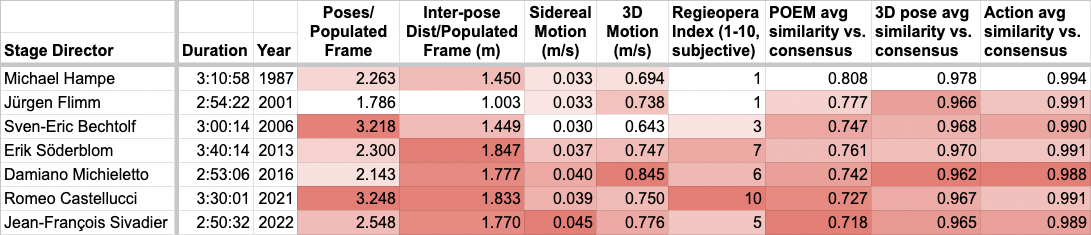
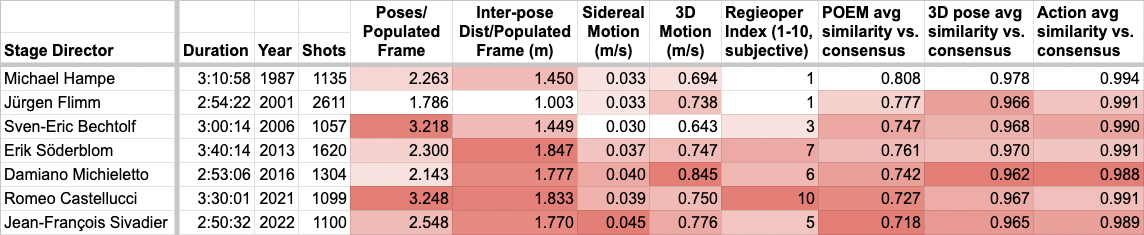
Update experiment results tables

diff --git a/slides.md b/slides.md
@@ -72,9 +72,9 @@ Ultimately, the problem of pose in theater is not just about understanding physi
 
 <div class="img-row">
 
-![OpenPifPaf not doing well](assets/methods/OpenPifPaf_bad.jpg "OpenPifPaf not doing well") Open PifPaf<br> (Temporal-Convolutional)
+![OpenPifPaf not doing well](assets/methods/OpenPifPaf_bad.jpg "OpenPifPaf not doing well") <strong>Open PifPaf</strong><br> Temporal-convolutional<br>2D only, limited tracking
 
-![PHALP doing well](assets/methods/PHALP_good.jpg "PHALP doing well") PHALP<br>(Transformers)
+![PHALP doing well](assets/methods/PHALP_good.jpg "PHALP doing well") <strong>PHALP</strong><br>Transformers-based<br>3D, more robust to occlusion
 
 </div>
 
@@ -112,8 +112,8 @@ Jathushan Rajasegaran, Georgios Pavlakos, Angjoo Kanazawa, Jitendra Malik. “Tr
 
 ![A vision transformer](assets/methods/vision-transformer.png "Vision transformer diagram") Alexey Dosovitskiy, et al. “An Image is Worth 16x16 Words: Transformers for Image Recognition at Scale.” In Proc. International Conference on Learning Representation 2021.
 
-![Transformer self-attention diagram](assets/methods/transformer_self-attention_visualization.png "Transformer self-attention diagram") Multi-headed self-attention, but with image patches, rather than words<br>
-(jalammar.github.io/illustrated-transformer/)
+![Transformer self-attention diagram](assets/methods/transformer_self-attention_visualization.png "Transformer self-attention diagram") Multi-headed self-attention, but with image patches instead of words<br>
+<small>jalammar.github.io/illustrated-transformer/</small>
 
 </div>
 
@@ -141,7 +141,7 @@ Jathushan Rajasegaran, Georgios Pavlakos, Angjoo Kanazawa, Christoph Feichtenhof
 ---
 
 
-## View-Invariant ("2.5D") Pose Embeddings
+## Probabilistic View-Invariant (2D+) Pose Embeddings
 
 <img class="r-stretch" src="assets/methods/view-invariant_embeddings.jpg" />
 
@@ -153,12 +153,14 @@ Sun, Jennifer J, Jiaping Zhao, Liang-Chieh Chen, Florian Schroff, Hartwig Adam a
 
 # The MIME Platform
 
+
 ---
 
 
 ## Platform Demonstration
 
 <video controls muted src="assets/mime-hai-seminar-demo-video.mp4"></video>
+
 
 ---
 
@@ -181,9 +183,11 @@ Sun, Jennifer J, Jiaping Zhao, Liang-Chieh Chen, Florian Schroff, Hartwig Adam a
 
 <div class="img-row">
 
-![Pose motion and distance confusion matrix](assets/results/LOO_motion_distance.png "Pose motion and distance confusion matrix") Pose motion and distance statistics
+Pose motion and distance statistics
+![Pose motion and distance confusion matrix](assets/results/LOO_motion_distance.png "Pose motion and distance confusion matrix")
 
-![View-invariant pose embeddings confusion matrix](assets/results/LOO_POEM_features.png "View-invariant pose embeddings confusion matrix") View-invariant pose embeddings
+View-invariant pose embeddings
+![View-invariant pose embeddings confusion matrix](assets/results/LOO_POEM_features.png "View-invariant pose embeddings confusion matrix") 
 
 </div>
 
@@ -203,9 +207,11 @@ Sun, Jennifer J, Jiaping Zhao, Liang-Chieh Chen, Florian Schroff, Hartwig Adam a
 
 <div class="img-row">
 
-![3D coordinates confusion matrix](assets/results/LOO_3D_coords.png "3D coordinates confusion matrix") Body keypoint coords (3D)
+Body keypoint coords (3D)
+![3D coordinates confusion matrix](assets/results/LOO_3D_coords.png "3D coordinates confusion matrix") 
 
-![Action recognition embeddings confusion matrix](assets/results/LOO_action_features.png "Action recognition embeddings confusion matrix") Action recognition embeddings
+Action recognition embeddings
+![Action recognition embeddings confusion matrix](assets/results/LOO_action_features.png "Action recognition embeddings confusion matrix") 
 
 </div>
 
@@ -215,7 +221,7 @@ Sun, Jennifer J, Jiaping Zhao, Liang-Chieh Chen, Florian Schroff, Hartwig Adam a
 
 ## Which Features Are Best for Differentiating between Directors?
 
-(Summary statistics of classification experiments go here)
+<img class="r-stretch" src="assets/results/classification_experiments.png" />
 
 
 ---
@@ -225,9 +231,11 @@ Sun, Jennifer J, Jiaping Zhao, Liang-Chieh Chen, Florian Schroff, Hartwig Adam a
 
 <div class="img-row">
 
-![Pose motion and distance feature importances](assets/results/importances_motion_distance_nb.png "Pose motion and distance feature importances") Pose motion and distance
+Pose motion and distance
+![Pose motion and distance feature importances](assets/results/importances_motion_distance_nb.png "Pose motion and distance feature importances")
 
-![Pose embedding importances](assets/results/importances_poem_nb.png "Pose embedding importances") View-invariant pose embedding elements
+View-invariant pose embedding
+![Pose embedding importances](assets/results/importances_poem_nb.png "Pose embedding importances") 
 
 </div>
 
@@ -237,9 +245,8 @@ Sun, Jennifer J, Jiaping Zhao, Liang-Chieh Chen, Florian Schroff, Hartwig Adam a
 
 ## Which Features Are Best for Differentiating between Directors?
 
+Body keypoint coords (3D)  
 <img class="r-stretch" src="assets/results/importances_keypoints_nb.png" />
-
-Body keypoint coords (3D)
 
 
 ---
@@ -285,7 +292,7 @@ Body keypoint coords (3D)
 
 <div class="screenshots">
 
-![Sven-Erik Bechtolf](assets/results/Viva_Bechtolf-Zurich.png) Sven-Erik Bechtolf
+![Sven-Eric Bechtolf](assets/results/Viva_Bechtolf-Zurich.png) Sven-Eric Bechtolf
 
 ![Damiano Michieletto](assets/results/Viva_Michieletto.png) Damiano Michieletto
 
